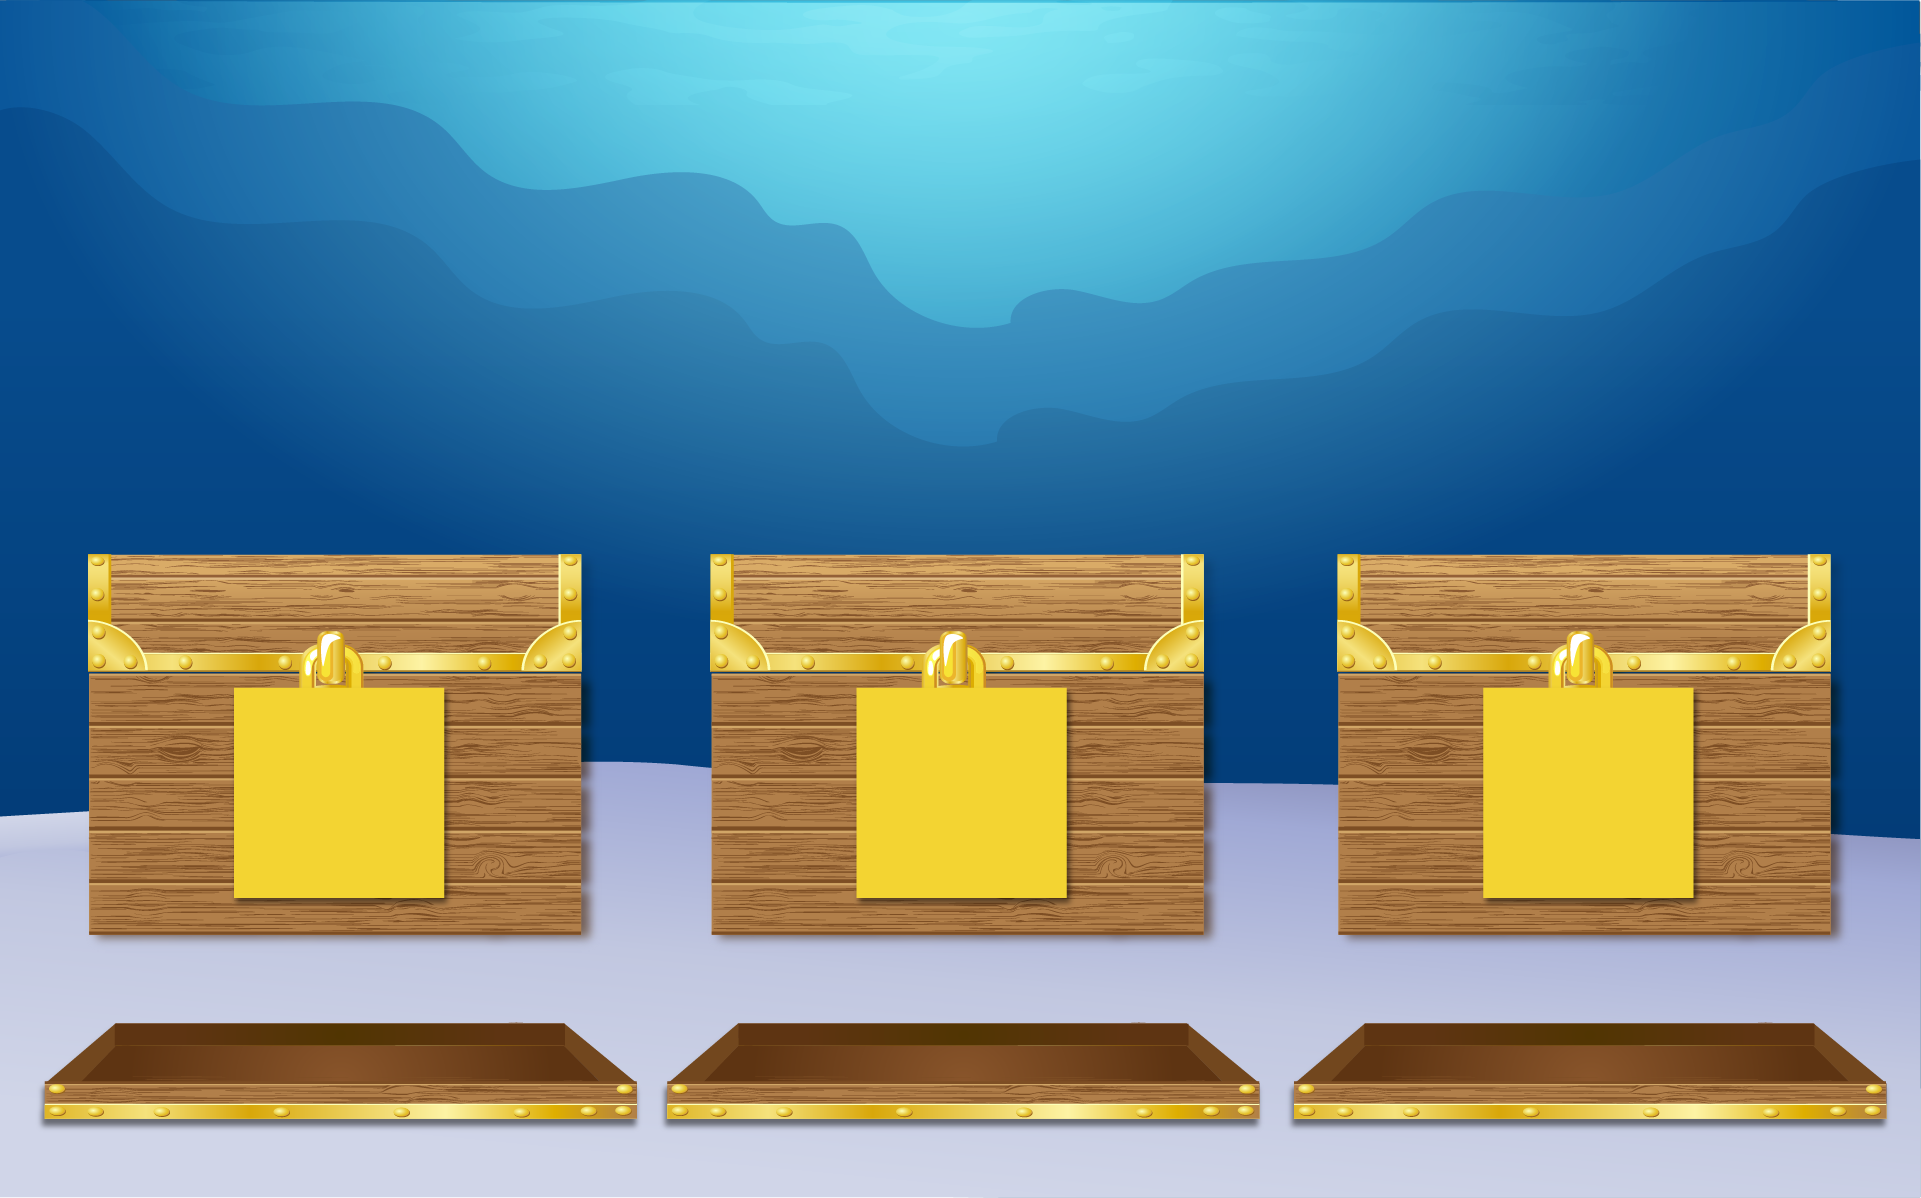
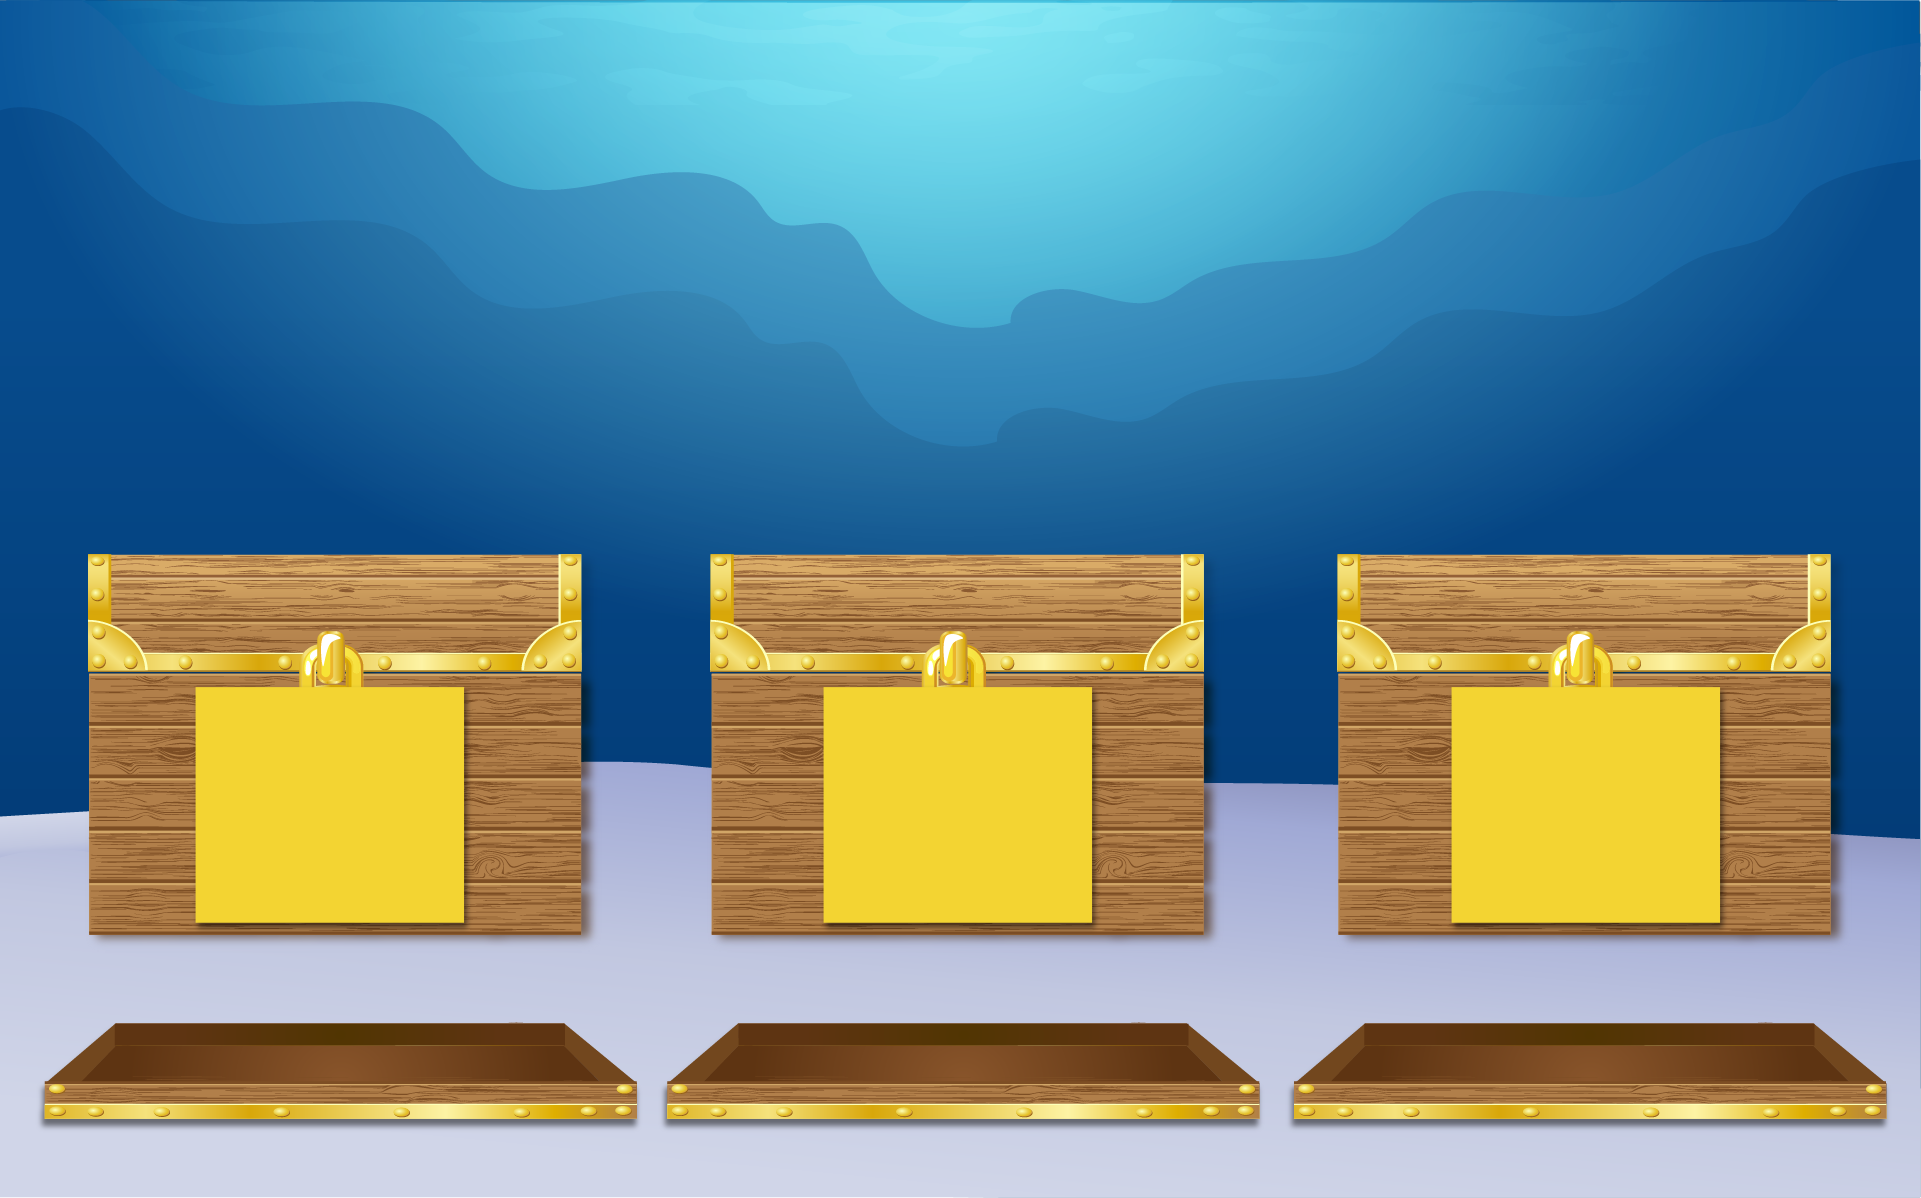
Rinat made graphical changes to solve_tangram_room.py and updated graphics from Natalie

Changed region(s): [[0.406, 0.5559, 0.5934, 0.803], [0.7496, 0.5559, 0.9058, 0.803], [0.0937, 0.5559, 0.2499, 0.803]]

diff --git a/tablet_app/solve_tangram_room.py b/tablet_app/solve_tangram_room.py
@@ -207,7 +207,7 @@ class GameTaskLayout(LoggedButton, TaskLayout):
         print('GameTaskLayout update_position dX=', self.dX)
         #self.size = [Window.width * 0.26, Window.height * 0.26]
         self.size = [TangramGame.SCALE * 10, TangramGame.SCALE * 10]
-        self.pos = [TangramGame.SCALE * 10, TangramGame.SCALE * 1]
+        self.pos = [TangramGame.SCALE * 12, TangramGame.SCALE * 1]
         #self.pos = [TangramGame.SCALE * (self.dX -1), TangramGame.SCALE * 2]
         print("Window.width",Window.width,"Window.height", Window.height)
         #self.update_selection_task_pos()

diff --git a/tablet_app/tangram_mindset_app.py b/tablet_app/tangram_mindset_app.py
@@ -58,9 +58,9 @@ root_widget = Builder.load_string('''
         TextInput:
             id: roscore_ip
             name: 'roscore_ip'
-            text: '132.66.50.139'
             text: '192.168.122.1'
             text: '192.168.0.105'
+            text: '132.66.50.139'
             font_size: 16
             multiline: False
             size: root.width * 0.4, root.height * 0.07

diff --git a/interaction_control/robot.py b/interaction_control/robot.py
@@ -102,8 +102,6 @@ class RobotComponent(Component):
                         the_expressions = self.add_expression(the_expressions, choice(the_options[self.agent.condition]))
 
 
-
-
             self.expression = self.process_expression (the_expressions)
 
             self.expression = the_expressions
